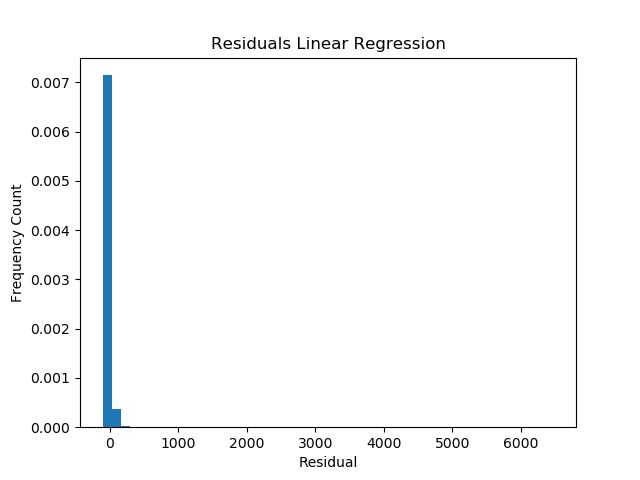
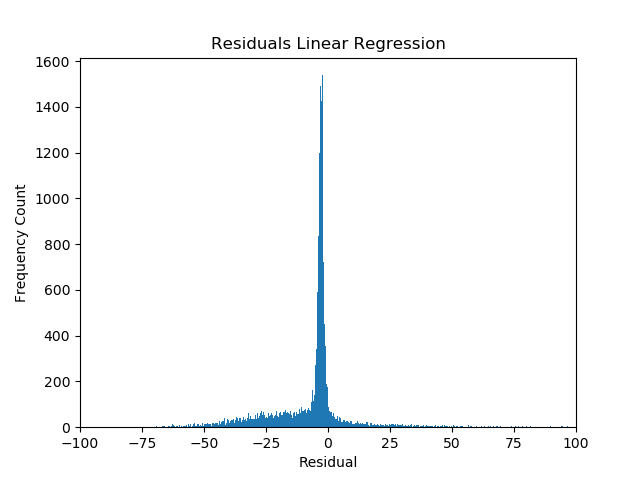
lunch exercise 5

diff --git a/day5-lunch/residuals.py b/day5-lunch/residuals.py
@@ -26,7 +26,8 @@ ols_result = model.fit()
 #print(ols_result.resid)
 
 fig, ax = plt.subplots()
-ax.hist(ols_result.resid, bins = 50, density = True)
+ax.hist(ols_result.resid, bins = 1000, range = (-100, 100))
+ax.set_xlim(-100, 100)
 plt.title("Residuals Linear Regression")
 ax.set_xlabel("Residual")
 ax.set_ylabel("Frequency Count")
